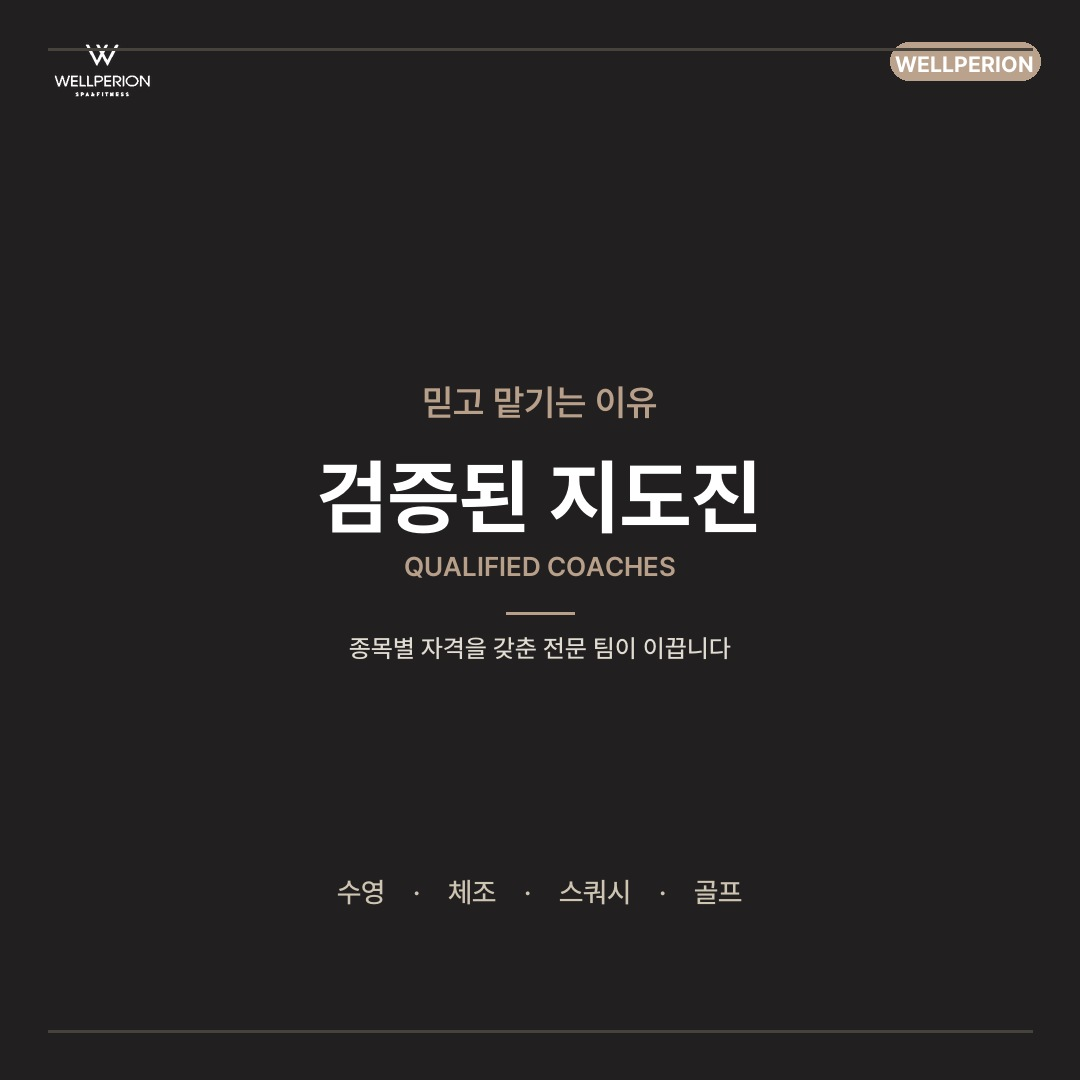
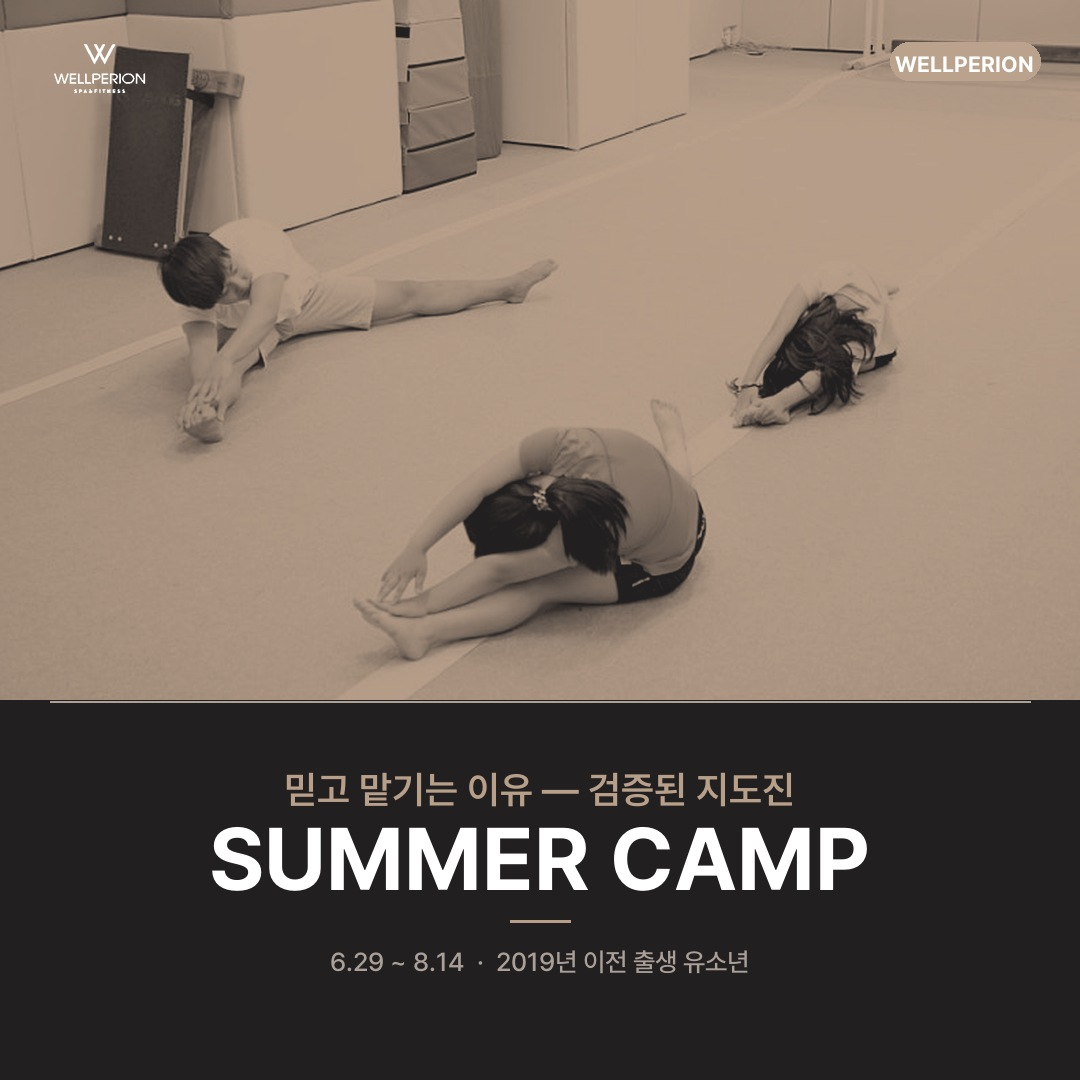
content(cmo): [시모] Ep3 표지 사진형 65/35 구조로 교체 (Ep1·Ep2 통일) — 상단 체조 활동컷 + SUMMER CAMP 밴드
Claude-Session: https://claude.ai/code/session_0133cA4wyP12yABv4U4NeWbe

diff --git a/instagram/260701_여름방학특강_ep3/build_slides.py b/instagram/260701_여름방학특강_ep3/build_slides.py
@@ -112,26 +112,33 @@ def _cred_chip(d: ImageDraw.ImageDraw, text: str, x: int, y: int, font, h: int =
     return h
 
 
+# 표지(사진형 65/35) — Ep1·Ep2 정본 구조 계승. 부제=GM 카피 유지, 대제목=SUMMER CAMP(시리즈 통일).
+COVER_PHOTO    = "방학 유소년 체조 강습.png"   # 활동컷(가로) · Ep2 수영레슨과 비중복
+COVER_TITLE_KR = "믿고 맡기는 이유 — 검증된 지도진"
+COVER_TITLE_EN = "SUMMER CAMP"
+COVER_DATE     = "6.29 ~ 8.14  ·  2019년 이전 출생 유소년"
+
+
 def compose_cover(output_path: Path) -> None:
-    """타이포 신뢰 커버 (얼굴 없음) — 검증된 지도진 + 4종목 라인."""
+    """표지 — Ep1·Ep2 정본 사진형(사진 상단 700px + 차콜 밴드) 구조 계승."""
+    PHOTO_H = 700
     canvas = Image.new("RGB", (W, H), BLACK_BG)
-    canvas = paste_logo(canvas, logo_w=120)
+
+    photo = center_crop_fill(SCENES / COVER_PHOTO, W, PHOTO_H)
+    photo = to_duotone(photo, normalize=True)
+    canvas.paste(photo, (0, 0))
+
+    ImageDraw.Draw(canvas).rectangle([(50, 701), (1030, 702)], fill=SEP_LINE)
+
+    canvas = paste_logo(canvas, logo_w=115)
     d = ImageDraw.Draw(canvas)
     _chip(d)
 
-    # 은은한 상하 프레임 라인
-    d.rectangle([(48, 48), (W - 48, 50)], fill=(70, 66, 60))
-    d.rectangle([(48, H - 50), (W - 48, H - 48)], fill=(70, 66, 60))
+    d.text((W // 2, 789), COVER_TITLE_KR, font=load_font("semibold", 38), fill=BEIGE, anchor="mm")
+    d.text((W // 2, 859), COVER_TITLE_EN, font=load_font("bold", 88), fill=WHITE, anchor="mm")
+    d.rectangle([(W // 2 - 30, 920), (W // 2 + 30, 922)], fill=BEIGE)
+    d.text((W // 2, 962), COVER_DATE, font=load_font("medium", 26), fill=GRAY, anchor="mm")
 
-    d.text((W // 2, 402), "믿고 맡기는 이유", font=load_font("semibold", 36), fill=BEIGE, anchor="mm")
-    d.text((W // 2, 496), "검증된 지도진", font=load_font("bold", 82), fill=WHITE, anchor="mm")
-    d.text((W // 2, 566), "QUALIFIED COACHES", font=load_font("semibold", 27), fill=BEIGE, anchor="mm")
-    d.rectangle([(W // 2 - 34, 612), (W // 2 + 34, 614)], fill=BEIGE)
-    d.text((W // 2, 648), "종목별 자격을 갖춘 전문 팀이 이끕니다",
-           font=load_font("medium", 25), fill=(225, 220, 210), anchor="mm")
-
-    d.text((W // 2, 892), "수영    ·    체조    ·    스쿼시    ·    골프",
-           font=load_font("medium", 28), fill=(205, 196, 178), anchor="mm")
     canvas.convert("RGB").save(output_path, "JPEG", quality=93, optimize=True)
     print(f"  [표지] {output_path.name}")
 
